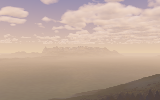
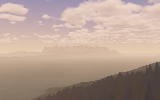
Review: coast row, neutral skeleton, trigger, -D order; example cleanup and caption
Claude-Session: https://claude.ai/code/session_01SjY16JjyTvuME1oVQVUxjG

diff --git a/.claude/skills/fractal-landscape/SKILL.md b/.claude/skills/fractal-landscape/SKILL.md
@@ -1,6 +1,6 @@
 ---
 name: fractal-landscape
-description: Make a new landscape piece in the fractal_clouds repo (PostScript ray-marched mountains, clouds, forests, lakes, rivers, sea, rendered with pscat) from a one-line request such as "a misty valley at dusk with a forest". Use when asked for a landscape, mountain, valley, lake, coast, sunset or cloudscape picture in this repo, to change a piece's look, or to pick settings, presets or a camera for one. Covers presets, the framing pass, full-detail crops, the final banded render and the Codex review loop.
+description: Make a new landscape piece in the fractal_clouds repo (PostScript ray-marched mountains, clouds, forests, lakes, rivers, sea, rendered with pscat) from a one-line request such as "a misty valley at dusk with a forest". Use when asked for a landscape, mountain, valley, lake, river, coast, beach, cliffs, island, sea, sunset or cloudscape picture in this repo, to write a scene file, to change a piece's look, or to pick settings, presets or a camera for one. Not for general PostScript art (use psart) or other pscat work (use pscat). Covers presets, the framing pass, full-detail crops, the final banded render and the Codex review loop.
 ---
 
 # fractal-landscape: request to piece
@@ -58,8 +58,9 @@ table in `references/recipes.md`:
   `lib/fc_map.ps`) for a particular geography: `gallery/charted_range.ps`.
 - **Season** (list before the terrain): `/Spring /Summer /Autumn /Winter`.
 - **Features:** `TreesOn` (forest; species mix `FsMix`), `WaterRise` or `WaterY`
-  (lake), `Rivers`, `MapWater` (map lakes), `Ocean` (sea; needs `WaterY`;
-  `spikes/ocean_shore.ps`), `CloudLayers` (e.g. `[/Cumulus /Cirrus]`).
+  (lake), `Rivers`, `MapWater` (map lakes), `Ocean` (sea; needs `WaterY` or
+  `WaterRise`; `spikes/ocean_shore.ps`), `MapOn` with `MapSea` for coasts and
+  islands (`spikes/coast.ps`), `CloudLayers` (e.g. `[/Cumulus /Cirrus]`).
 - **Camera:** `Yaw`, `Pitch`, `HFov`, `CamAbove` or `CamLift`, and where you
   stand: `TerrOX`/`TerrOZ`. Moving these is how you find a composition (a
   valley is a camera low in the range, looking along it; `TerrOX 180 TerrOZ 400`
@@ -82,7 +83,8 @@ A misspelt preset stops with `fc_presets: no preset called ...`.
 DPI=36 scripts/render.sh gallery/<name>.ps       # 160x100, 1.5 to 3 minutes
 ```
 
-`-D Res=0.25` and a lower `-D ErN=256 -D ErDrops=20000` are cheaper still.
+Cheaper still: `DPI=36 scripts/render.sh -D Res=0.25 -D ErN=256 -D ErDrops=20000 gallery/<name>.ps`
+(`-D` options go before the piece path).
 Check the composition: horizon height, where the light falls, what is in the
 foreground. Adjust camera, then seed, then settings. Two or three passes, not
 ten. `-D Profile=true` prints where the time goes if a render is slow.

diff --git a/.claude/skills/fractal-landscape/references/recipes.md b/.claude/skills/fractal-landscape/references/recipes.md
@@ -9,7 +9,7 @@ Presets are in `lib/fc_presets.ps`.
 ```postscript
 %!PS-Adobe-3.0
 %%BoundingBox: 0 0 320 200
-%%Title: Misty valley
+%%Title: My landscape
 % Status: draft
 % Preview: DPI=36 scripts/render.sh <path of this file>
 
@@ -19,12 +19,11 @@ Presets are in `lib/fc_presets.ps`.
 /Yaw where { pop } { /Yaw -20 def } ifelse
 /Pitch where { pop } { /Pitch 2 def } ifelse
 /HFov where { pop } { /HFov 55 def } ifelse
-/HazeDist where { pop } { /HazeDist 220 def } ifelse
 
 % 2. presets: after the piece's settings (presets never override them),
 %    before the landscape
 (lib/fc_presets.ps) run
-[ /Evening /Clear /Foothills ] fc-presets
+[ /Evening /Clear /Alpine ] fc-presets
 
 % 3. the landscape reads all of the above as it loads
 (lib/fc_landscape.ps) run
@@ -56,7 +55,8 @@ the presets you list.
 | snow, winter | `/Winter`, or a low `SnowLine` |
 | lake | `WaterRise` 1.4 (the surface this far above the ground under the camera), or `WaterY` |
 | river | `Rivers true` (needs `Erode`; `docs/prs/28-water/river_valley.ps`) |
-| sea, coast, beach | `Ocean true` with `WaterY`; raise `RippleAmp`, set `WindDir` |
+| sea | `Ocean true` with `WaterY` or `WaterRise`; raise `RippleAmp`, set `WindDir` |
+| coast, beach, cliffs, island | `MapOn true`, `MapSea` (sea level; also `Ocean true`), `MapFeatures` `/volcano` `/atoll` `/cliff` `/stack`, `MapLiftGrid` for low land; copy `spikes/coast.ps`. Don't set a `WaterY` different from `MapSea`: the water detaches from the coast |
 | a particular geography | `MapOn true`, `MapFeatures` (peak, ridge, valley, lake), `MapWater` |
 | desert, canyon, red rock | `/Mesa` |
 | high viewpoint | `CamLift` 0.72 |
